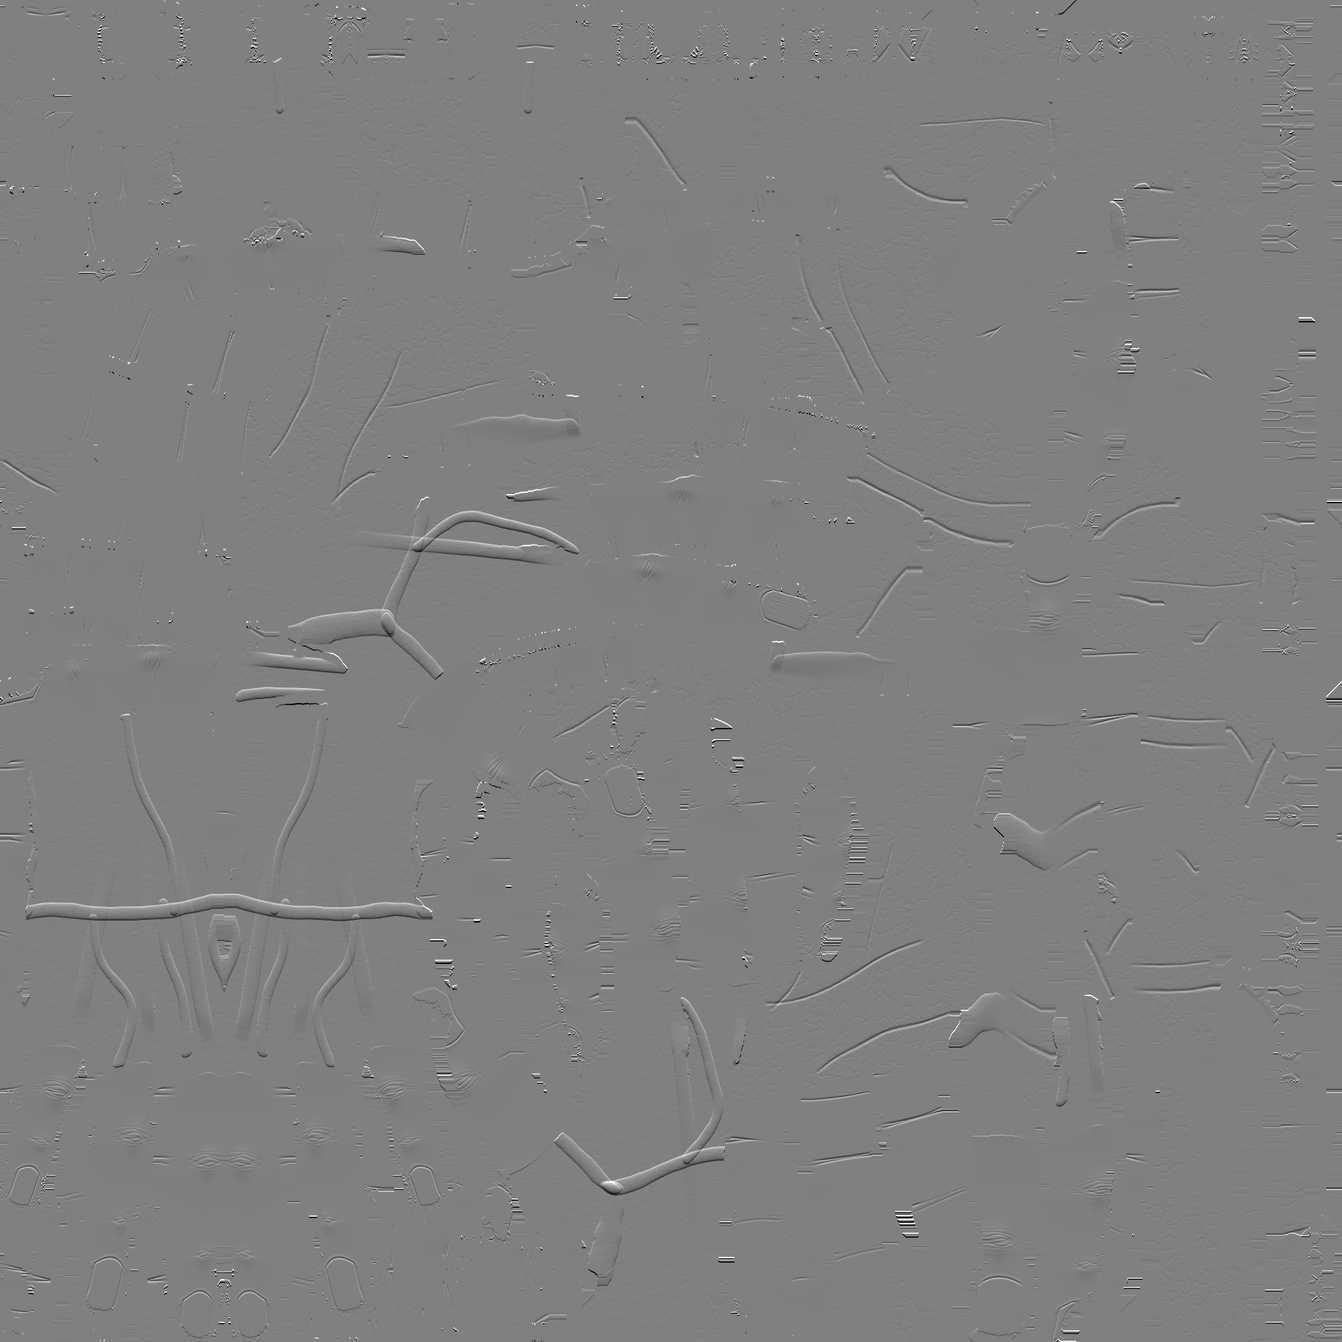
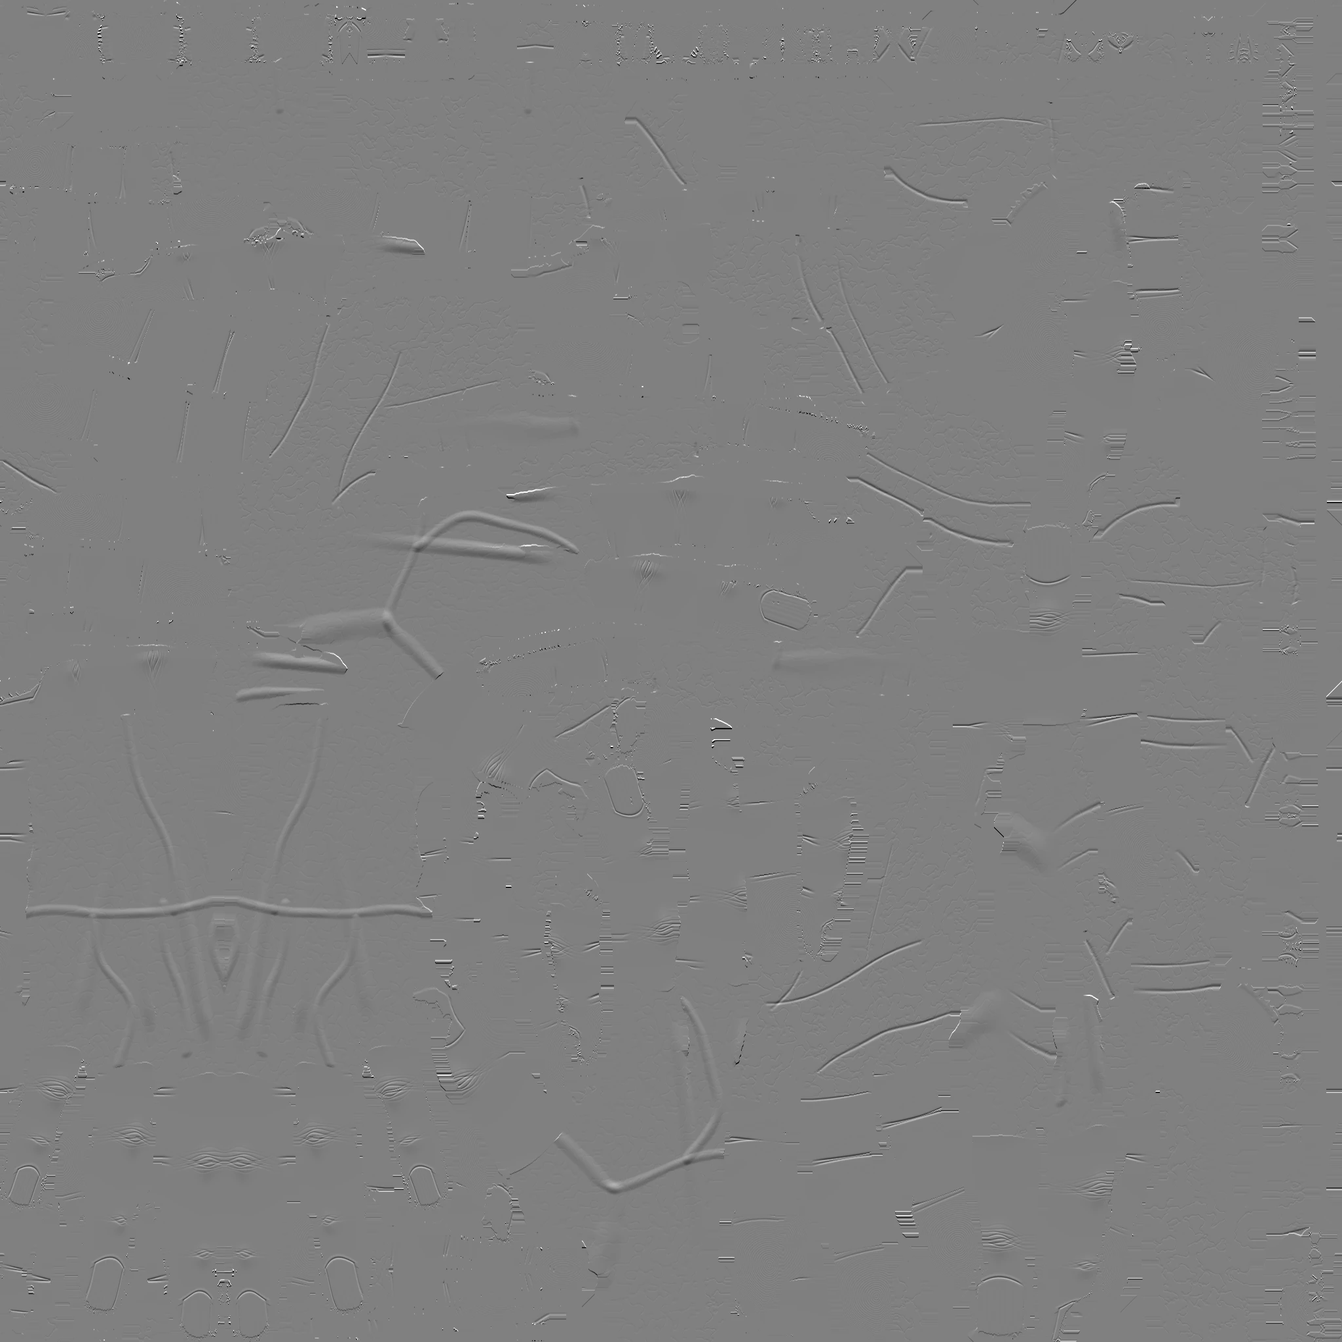
Hands: softer veins and tendons, cooler skin base, watch on the back of the wrist, roomier oval cuff, right forearm drops lower at aim (sleeve ~12% of the phone screen at ADS)

diff --git a/js/hands.js b/js/hands.js
@@ -25,7 +25,7 @@ export const SKINS = {
 const MODELS = new URL('../assets/models/', import.meta.url).href;
 const DRACO = new URL('../vendor/three/addons/libs/draco/gltf/', import.meta.url).href;
 // Must match tools/blender/build_hands.py: tile size (px), slope range of the relief maps, physical size of the tiles (m).
-const MAP = { tile: 512, slopeMax: 1.0, tileSkin: 0.012, tileLeather: 0.02 };
+const MAP = { tile: 512, slopeMax: 1.0, tileSkin: 0.016, tileLeather: 0.02 };
 
 // One material per look, on MeshPhysicalMaterial:
 //  - normals from the baked slope maps (u and v) plus a tiled micro relief (pores, or leather grain),
@@ -37,9 +37,9 @@ function skinMaterial(look, T, uvMeters) {
     color: glove ? s.color : 0xffffff, map: glove ? null : T.albedo,
     roughness: glove ? 0.55 : 1, roughnessMap: glove ? null : T.orm, aoMap: T.orm, aoMapIntensity: 1,
     normalMap: glove ? T.gloveNx : T.nx,
-    specularIntensity: s.spec, sheen: glove ? 0.4 : 0.22, sheenRoughness: glove ? 0.45 : 0.6, sheenColor: glove ? 0x6a5848 : 0xc89282,
-    clearcoat: glove ? 0.3 : 0.1, clearcoatRoughness: glove ? 0.42 : 0.36,
-    emissive: glove ? 0x000000 : s.sss, emissiveIntensity: glove ? 0 : 0.03,
+    specularIntensity: s.spec, sheen: glove ? 0.4 : 0.12, sheenRoughness: glove ? 0.45 : 0.7, sheenColor: glove ? 0x6a5848 : 0xc89282,
+    clearcoat: glove ? 0.3 : 0, clearcoatRoughness: 0.42,
+    emissive: glove ? 0x000000 : s.sss, emissiveIntensity: glove ? 0 : 0.02,
   });
   const detail = glove ? T.leather : T.pores;
   m.onBeforeCompile = (sh) => {
@@ -60,7 +60,7 @@ function skinMaterial(look, T, uvMeters) {
         vec2 gd = vec2( texture2D( uDetail, dUv + vec2( dT, 0.0 ) ).r - texture2D( uDetail, dUv - vec2( dT, 0.0 ) ).r,
                         texture2D( uDetail, dUv + vec2( 0.0, dT ) ).r - texture2D( uDetail, dUv - vec2( 0.0, dT ) ).r );
         // fade the micro relief out as its texels shrink below a pixel, so it never shimmers
-        float dFade = clamp( 2.0 - 0.75 * ${MAP.tile}.0 * length( fwidth( dUv ) ), 0.0, 1.0 );
+        float dFade = clamp( 1.6 - 0.12 * ${MAP.tile}.0 * length( fwidth( dUv ) ), 0.25, 1.0 );
         vec3 mapN = vec3( -( g + gd * uDetailK * dFade ), 1.0 );`))
       .replace('#include <lights_physical_pars_fragment>', THREE.ShaderChunk.lights_physical_pars_fragment.replace(
         'reflectedLight.directDiffuse += irradiance * BRDF_Lambert( material.diffuseColor );',
@@ -113,7 +113,7 @@ function tweedHeight() {
     const tw = 0.5 + 0.5 * Math.cos(ph * Math.PI * 2);
     const seam = Math.min(1, Math.abs((X % 8) - 0) * 1.5, Math.abs(8 - (X % 8)) * 1.5);
     h[i] = (0.55 * tw * tw + 0.25 * n3[i] + 0.2 * n2[i]) * (0.75 + 0.25 * seam);
-    fleck[i] = Math.max(0, nf[i] * 0.6 + n3[i] * 0.5 - 0.78) * 6;
+    fleck[i] = Math.max(0, nf[i] * 0.6 + n3[i] * 0.5 - 0.86) * 4;
   }
   return (tweedH = { h, fleck, S });
 }
@@ -194,9 +194,9 @@ const smooth = (a, b, x) => { const t = Math.min(1, Math.max(0, (x - a) / (b - a
 
 // Sleeve layout along the arm, in metres from the cuff edge (y = 0), which sits CUFF_AT up the arm from the wrist joint.
 const CUFF_AT = -0.011;          // the wrist joint is ~2 cm up the forearm from the wrist crease; the cuff ends just past it
-const CUFF = { a: 0.0332, b: 0.0242, off: 0.0015 };    // shirt cuff semi-axes (across, back-to-palm); centre toward the palm
+const CUFF = { a: 0.0338, b: 0.0258, off: 0.0015 };    // shirt cuff semi-axes (across, back-to-palm); centre toward the palm
 const HEM_Y = 0.0135;            // jacket hem: 13.5 mm of shirt cuff shows
-const JACKET = { a0: 0.0372, b0: 0.0288, a1: 0.047, b1: 0.04, len: 0.72 };
+const JACKET = { a0: 0.0378, b0: 0.0302, a1: 0.044, b1: 0.037, len: 0.72 };
 
 class Hand {
   constructor(scene, side, T) {
@@ -258,11 +258,10 @@ class Hand {
     this.sleeve.traverse((o) => { if (o.isMesh && o !== this.cap) { o.geometry.dispose(); o.material.map?.dispose(); o.material.dispose(); } });
     this.sleeve.clear();
     const right = this.side === 'right';
-    // The watch sits on the wrist's +X side; the left cuff rides up over it there.
-    const watchSide = watch ? 1 : 0;
-    const bulge = (ph, y) => watchSide * 0.0062 * Math.pow(Math.max(0, Math.cos(ph)), 6) * smooth(0.034, 0.0, y);
+    // On the watch hand the cuff stops a little higher, just above the watch.
+    this.cuffAt = watch ? -0.002 : CUFF_AT;
     const cuffProf = hemProfile(0, 0.0011, 0.06, 0.018, 10);
-    const cuffGeo = tubeGeometry({ prof: cuffProf, A: () => CUFF.a, B: () => CUFF.b, bump: bulge, seg: 72, offZ: CUFF.off, uRep: Math.round((2 * Math.PI * 0.029) / (OXFORD_MM / 1000)), vScale: 1000 / OXFORD_MM });
+    const cuffGeo = tubeGeometry({ prof: cuffProf, A: () => CUFF.a, B: () => CUFF.b, seg: 72, offZ: CUFF.off, uRep: Math.round((2 * Math.PI * 0.029) / (OXFORD_MM / 1000)), vScale: 1000 / OXFORD_MM });
     const cuffMat = new THREE.MeshPhysicalMaterial({ color: cuff, roughness: 0.82, sheen: 0.5, sheenRoughness: 0.6, sheenColor: new THREE.Color(cuff).multiplyScalar(0.9), normalMap: oxfordNormal(), normalScale: new THREE.Vector2(0.35, 0.35), side: THREE.DoubleSide });
     // topstitching 5 mm from the cuff edge: a fine darker line in the cuff's own colour
     cuffMat.onBeforeCompile = (sh) => {
@@ -278,11 +277,10 @@ class Hand {
       d += 0.0022 * Math.exp(-(((y - 0.2 - 0.03 * Math.cos(ph)) / 0.03) ** 2)) * (0.55 + 0.45 * Math.sin(ph * 2 + 1.1));
       d += 0.0018 * Math.exp(-(((y - 0.3 + 0.025 * Math.sin(ph)) / 0.028) ** 2)) * (0.5 + 0.5 * Math.cos(ph * 3 + 0.4));
       d += 0.0012 * Math.sin(ph * 5 + y * 40) * smooth(0.1, 0.3, y);
-      d += watchSide * 0.003 * Math.pow(Math.max(0, Math.cos(ph)), 6) * smooth(HEM_Y + 0.04, HEM_Y, y);
       return d;
     };
     const jProf = hemProfile(HEM_Y, 0.0016, J.len, HEM_Y + 0.05, 40);
-    const tw = tweedMaps(sleeve, '#d9ccb0');
+    const tw = tweedMaps(sleeve, '#b8ab90');
     const circ = Math.PI * (J.a0 + J.b0) * 1.1;
     const jGeo = tubeGeometry({ prof: jProf, A: (y) => J.a0 + (J.a1 - J.a0) * ramp(y), B: (y) => J.b0 + (J.b1 - J.b0) * ramp(y), bump: folds, seg: 96, uRep: Math.round(circ / (TWEED_MM / 1000)), vScale: 1000 / TWEED_MM });
     const jMat = new THREE.MeshPhysicalMaterial({ map: tw.map, normalMap: tw.normal, normalScale: new THREE.Vector2(0.55, 0.55), roughness: 0.9, sheen: 1, sheenRoughness: 0.55, sheenColor: new THREE.Color(sleeve).multiplyScalar(1.4), side: THREE.DoubleSide });
@@ -306,19 +304,18 @@ class Hand {
     const cap = new THREE.Mesh(new THREE.CircleGeometry(1, 48).rotateX(-Math.PI / 2).scale(CUFF.a - 0.003, 1, CUFF.b - 0.003).translate(0, 0.012, CUFF.off),
       this.capMat ||= new THREE.MeshStandardMaterial({ color: 0x3a2218, roughness: 0.8, side: THREE.DoubleSide }));
     this.sleeve.add(cap); this.cap = cap;
-    const d = new THREE.Group(), w = this.wrist.position;
-    const dorsal = new THREE.Vector3(1, 0, 0).applyQuaternion(this.wrist.quaternion);
-    const along = new THREE.Vector3(0, 0, 1).applyQuaternion(this.wrist.quaternion); // toward the elbow
-    const basis = new THREE.Matrix4().makeBasis(dorsal, along, dorsal.clone().cross(along).normalize());
-    d.quaternion.setFromRotationMatrix(basis); d.position.copy(w);
+    // The watch rides on the wrist bone's frame (X across, Y back of the hand, Z up the arm), on the back of the wrist
+    // just past the cuff, 12 o'clock toward the fingers.
+    const d = new THREE.Group(); d.position.copy(this.wrist.position); d.quaternion.copy(this.wrist.quaternion);
     if (watch) {
-      // strap fitted to the wrist (across 2.75 cm, back-to-palm 2.1 cm half-widths), case on the +X side
-      const strap = new THREE.Mesh(new THREE.CylinderGeometry(1, 1, 0.018, 80, 1, true).scale(0.0284, 1, 0.0218), new THREE.MeshPhysicalMaterial({ color: 0x3b2316, roughness: 0.55, clearcoat: 0.2, side: THREE.DoubleSide }));
-      strap.position.set(0, 0.006, -0.001); d.add(strap);
-      const caseG = new THREE.Group(); caseG.position.set(0.0302, 0.006, -0.001); caseG.rotation.z = -Math.PI / 2; d.add(caseG);
-      caseG.add(new THREE.Mesh(new THREE.CylinderGeometry(0.0175, 0.0185, 0.0075, 96), new THREE.MeshPhysicalMaterial({ color: 0xd9b46a, metalness: 1, roughness: 0.2 })));
-      const face = new THREE.Mesh(new THREE.CircleGeometry(0.0152, 96), new THREE.MeshPhysicalMaterial({ map: watchFace(), roughness: 0.3, clearcoat: 1 }));
-      face.rotation.x = -Math.PI / 2; face.rotation.z = Math.PI / 2; face.position.y = 0.0039; caseG.add(face);
+      const z = -0.013;
+      const strap = new THREE.Mesh(new THREE.CylinderGeometry(1, 1, 0.017, 96, 1, true).rotateX(Math.PI / 2).scale(0.0309, 0.0199, 1),
+        new THREE.MeshPhysicalMaterial({ color: 0x3b2316, roughness: 0.55, clearcoat: 0.2, side: THREE.DoubleSide }));
+      strap.position.set(0, -0.0016, z); d.add(strap);
+      const caseG = new THREE.Group(); caseG.position.set(0, 0.0215, z); d.add(caseG);
+      caseG.add(new THREE.Mesh(new THREE.CylinderGeometry(0.0168, 0.0178, 0.0072, 96), new THREE.MeshPhysicalMaterial({ color: 0xd9b46a, metalness: 1, roughness: 0.2 })));
+      const face = new THREE.Mesh(new THREE.CircleGeometry(0.0146, 96), new THREE.MeshPhysicalMaterial({ map: watchFace(), roughness: 0.3, clearcoat: 1 }));
+      face.rotation.x = -Math.PI / 2; face.rotation.z = Math.PI; face.position.y = 0.0037; caseG.add(face);
       caseG.traverse((o) => { if (o.isMesh) o.castShadow = true; });
     }
     this.group.children[0].add(d); this.dressing = d;
@@ -336,7 +333,7 @@ class Hand {
     const palm = new THREE.Vector3(0, -1, 0).transformDirection(mw);
     this.sleeve.quaternion.setFromRotationMatrix(this._m);
     this.sleeve.scale.set(1, 1, palm.dot(z) < 0 ? -1 : 1);
-    this.sleeve.position.copy(w).addScaledVector(dir, CUFF_AT);
+    this.sleeve.position.copy(w).addScaledVector(dir, this.cuffAt ?? CUFF_AT);
   }
 
   setSkin(name) {

diff --git a/sw.js b/sw.js
@@ -1,12 +1,14 @@
 // Offline cache: the shell and phone assets are stored on install; everything else same-origin is cached on first use.
 // Responses come from the cache at once and refresh in the background, so a new push shows on the next open.
-const CACHE = 'roulette-v5';
+const CACHE = 'roulette-v6';
 const SHELL = [
   './', 'index.html', 'app.css', 'manifest.webmanifest',
-  'js/main.js', 'js/revolver.js', 'js/hands.js', 'js/hands-data.js', 'js/fx.js', 'js/sound.js', 'js/target.js', 'js/customize.js',
+  'js/main.js', 'js/revolver.js', 'js/hands.js', 'js/fx.js', 'js/sound.js', 'js/target.js', 'js/customize.js',
   'js/range.js', 'js/pistol.js', 'assets/ui/pistol-classic.webp', 'assets/ui/pistol-stainless.webp', 'assets/ui/pistol-black.webp',
   // The pistol model and its textures (about 1.5 MB) are cached the first time Range opens.
   'assets/models/revolver.glb', 'assets/models/revolver_wear.webp', 'assets/models/revolver_scratch.webp', 'assets/models/revolver_grip_m.webp', 'assets/models/revolver_grip_n.webp', 'assets/models/revolver_normal.webp', 'assets/models/revolver_detail.webp',
+  'assets/models/hand_left.glb', 'assets/models/hand_right.glb', 'assets/models/hand_albedo.webp', 'assets/models/hand_nx.webp', 'assets/models/hand_ny.webp',
+  'assets/models/hand_orm.webp', 'assets/models/hand_glove_nx.webp', 'assets/models/hand_glove_ny.webp', 'assets/models/hand_pores.webp', 'assets/models/hand_leather.webp',
   'vendor/three/addons/loaders/DRACOLoader.js', 'vendor/three/addons/libs/draco/gltf/draco_decoder.wasm', 'vendor/three/addons/libs/draco/gltf/draco_wasm_wrapper.js',
   'vendor/gsap.min.js', 'vendor/three/three.module.js',
   'vendor/three/addons/postprocessing/EffectComposer.js', 'vendor/three/addons/postprocessing/RenderPass.js',

diff --git a/js/main.js b/js/main.js
@@ -1025,7 +1025,7 @@ function update(dt, t, raw) {
     ['pinky', 'ring', 'middle', 'index'].forEach((f, i) => { const ph = (drum - i * 0.11) / 0.22; if (ph > 0 && ph < 1 && !reduced) poseL[f][0] -= Math.sin(ph * Math.PI) * 0.45; });
     left.apply(poseL);
     scene.updateMatrixWorld();
-    const fore = tmpV.set(0, 0, 1).transformDirection(right.wrist.matrixWorld).add(new THREE.Vector3().copy(ELBOW_R).add(new THREE.Vector3(0.06 * P.ads, -0.4 * P.ads, 0)).multiply(new THREE.Vector3(mir.scale.x, 1, 1)).applyQuaternion(camera.getWorldQuaternion(tmpQ))).normalize();
+    const fore = tmpV.set(0, 0, 1).transformDirection(right.wrist.matrixWorld).add(new THREE.Vector3().copy(ELBOW_R).add(new THREE.Vector3(-0.15 * P.ads, -1.2 * P.ads, 0)).multiply(new THREE.Vector3(mir.scale.x, 1, 1)).applyQuaternion(camera.getWorldQuaternion(tmpQ))).normalize();
     right.aimSleeve(right.wrist.getWorldPosition(new THREE.Vector3()).addScaledVector(fore, 0.3));
     left.aimSleeve(lmir.localToWorld(elbowNow.clone()));
   }

diff --git a/tools/blender/build_hands.py b/tools/blender/build_hands.py
@@ -312,7 +312,7 @@ def make_veins(seed):
         pts = [(x + rng.normal(0, .02), 1.02), (x + rng.normal(0, .04), 0.8), (x * 0.85 + 0.08 + rng.normal(0, .04), 0.6), (0.15 + 0.7 * (i / 2) + rng.normal(0, .03), arch_y)]
         lines.append((catmull(pts), 1.0 - 0.15 * i))
     arch = catmull([(-0.15, 0.25), (0.1, arch_y - 0.02), (0.45, arch_y + 0.03), (0.8, arch_y - 0.01), (1.08, 0.3)])
-    lines.append((arch, 1.1))
+    lines.append((arch, 0.75))
     lines.append((catmull([(-0.15, 0.25), (-0.12, 0.0), (-0.05, -0.35), (0.0, -0.8)]), 1.25))     # cephalic, radial side
     lines.append((catmull([(1.08, 0.3), (1.0, 0.0), (0.92, -0.4), (0.9, -0.8)]), 1.15))           # basilic, ulnar side
     lines.append((catmull([(0.45, arch_y + 0.03), (0.42, 0.2), (0.5, -0.1), (0.46, -0.5)]), 0.8))  # small median vein
@@ -397,7 +397,7 @@ def fields(H, P, N):
                 red += 0.6 * gauss(zr + 1.0, 5.0) * gauss(theta, 0.8)
                 wr = sum(gauss(zr - d0 - 2.2 * theta ** 2, 0.22) * a0 for d0, a0 in ((-3.0, .5), (-1.4, .8), (0.2, 1), (1.8, .7), (3.3, .4)))
                 wmask = gauss(theta, 0.8) * gauss(zr, 6.0)
-                h -= 0.00007 * wr * wmask; crease += 0.5 * wr * wmask
+                h -= 0.0001 * wr * wmask; crease += 0.6 * wr * wmask
                 hg -= 0.00025 * (gauss(zr + 2.0 - 2 * theta ** 2, 0.8) + gauss(zr - 2.5 - 2 * theta ** 2, 0.9)) * gauss(theta, 0.9)
             else:
                 size = 1.0 if big else 0.62
@@ -409,7 +409,7 @@ def fields(H, P, N):
                     jit = 0.25 * np.sin(theta * 3.1 + d0 * 1.7)
                     wr = wr + a0 * gauss(zr - d0 * size - curv * theta ** 2 * np.sign(-d0 + 0.5) * 0.6 - jit, 0.17 + 0.05 * size)
                 wmask = gauss(theta, 0.95 * size + 0.15) * gauss(zr - 0.5, 4.6 * size)
-                h -= 0.00011 * wr * wmask; crease += 0.8 * wr * wmask
+                h -= 0.00016 * wr * wmask; crease += 0.9 * wr * wmask
                 padk = gauss(zr - 0.8, 4.2 * size) * gauss(theta, 0.75)
                 h += 0.00035 * padk * size; knuck += padk * size
                 red += (0.85 if big else 0.55) * gauss(zr - 0.5, 4.8 * size) * gauss(theta, 0.85)
@@ -506,15 +506,15 @@ def fields(H, P, N):
             A = np.array([0.42 + 0.06 * (fi - 1.5), -0.25]) * sc; B = np.array([kx, ky]) * sc
             d, t = seg_dist2d(q * sc, A, B)
             vis = smooth(0.25, 0.8, t) * smooth(1.02, 0.9, t) * (1.0 if fi < 3 else 0.6)
-            prof = np.sqrt(np.clip(1 - (d / 0.0026) ** 2, 0, 1))
+            prof = np.clip(1 - (d / 0.0034) ** 2, 0, 1) ** 2
             h += dors * 0.0005 * prof * vis
         # back: knuckle valleys
         # veins (slightly raised, a cool tint)
         for line, s in VEINS:
             c = line * sc; d, al, tot = poly_dist(q * sc, c)
-            wv = 0.0019 * s * (1 + 0.15 * vnoise3(P[pm], 200, 77))
-            prof = np.sqrt(np.clip(1 - (d / wv) ** 2, 0, 1))
-            h += dors * 0.00045 * s * prof
+            wv = 0.0024 * s * (1 + 0.15 * vnoise3(P[pm], 200, 77))
+            prof = np.clip(1 - (d / wv) ** 2, 0, 1) ** 2
+            h += dors * 0.0004 * s * prof * (0.75 + 0.25 * vnoise3(P[pm], 120, 78))
             vein = np.maximum(vein, dors * smooth(1.0, 0.3, d / wv) * min(1, s))
         # back of the hand: faint diamond creases
         h -= dors * 0.00002 * np.clip(1 - np.abs(vnoise3(P[pm], 420, 21)) * 6, 0, 1)
@@ -541,6 +541,7 @@ def fields(H, P, N):
     out['noise_hi'] = fbm3(P, 700, 5, 3)
     out['mottle'] = fbm3(P, 260, 8, 3)
     out['spots'] = np.clip((vnoise3(P, 900, 13) - 0.86) * 9, 0, 1)
+    out['speck'] = vnoise3(P, 1700, 17) * 0.6 + vnoise3(P, 3200, 19) * 0.4
     return out
 
 # ================================================================= BAKE
@@ -616,14 +617,14 @@ save('hand_nx', gx, 90); save('hand_ny', gy, 90)
 
 # ---- albedo (linear "medium" skin), stored sRGB
 vent = F['vent']; red = np.clip(F['red'], 0, 1.5); dark = np.clip(F['dark'], 0, 1.5)
-base_d = np.array([0.43, 0.215, 0.135]); base_v = np.array([0.50, 0.285, 0.20])
+base_d = np.array([0.33, 0.21, 0.165]); base_v = np.array([0.42, 0.285, 0.225])
 col = base_d * (1 - vent[..., None]) + base_v * vent[..., None]
 mott = F['mottle'][..., None]; lo = F['noise_lo'][..., None]
-col = col * (1 + 0.07 * lo + 0.04 * mott * np.array([1.0, 0.8, 0.7]))
-col = col * (1 - red[..., None] * np.array([-0.03, 0.17, 0.18]))                  # redness: less green/blue
-col = col * (1 - 0.30 * np.clip(dark, 0, 1)[..., None] - 0.25 * np.clip(F['crease'], 0, 1.5)[..., None] * np.array([0.9, 1.0, 1.0]))
+col = col * (1 + 0.10 * lo + 0.07 * mott * np.array([1.0, 0.8, 0.7]) + 0.05 * F['speck'][..., None])
+col = col * (1 - red[..., None] * np.array([-0.04, 0.2, 0.17]))                  # redness: less green/blue
+col = col * (1 - 0.32 * np.clip(dark, 0, 1)[..., None] - 0.38 * np.clip(F['crease'], 0, 1.2)[..., None] * np.array([0.85, 1.0, 1.0]))
 vein = F['vein'][..., None]
-col = col * (1 - vein * np.array([0.10, 0.04, -0.03]))
+col = col * (1 - vein * np.array([0.08, 0.0, -0.06]))
 col = col * (1 - 0.18 * F['spots'][..., None] * (1 - vent[..., None]) * np.array([0.8, 1, 1.1]))
 col = col * (1 - 0.06 * F['side'][..., None] * np.array([0.5, 1, 1]))
 nail = F['nail'][..., None]; lun = F['lunula'][..., None]; free = F['free'][..., None]; band = F['band'][..., None]
@@ -634,7 +635,7 @@ nail_c = nail_c * (1 - free) + np.array([0.76, 0.69, 0.58]) * free
 col = col * (1 - nail) + nail_c * nail
 col = col * (0.55 + 0.45 * F['ao'][..., None] ** 0.6)
 alb = fill_pad(lin2srgb(col), mask)
-save('hand_albedo', alb, 88)
+save('hand_albedo', alb, 92)
 
 # ---- ORM: occlusion, roughness, pigment weight, glove stitch mask
 ao = np.clip(F['ao'] * (1 - 0.35 * np.clip(F['crease'], 0, 1)) * (1 - 0.12 * F['side']), 0, 1)
@@ -645,7 +646,7 @@ st = np.clip(F['stitch'], 0, 1)
 orm = np.stack([ao, np.clip(rough, 0, 1), np.clip(pig, 0, 1), st], -1)
 # half resolution
 orm = orm.reshape(ORM_RES, 2, ORM_RES, 2, 4).mean((1, 3)); mh = mask.reshape(ORM_RES, 2, ORM_RES, 2).max((1, 3))
-save('hand_orm', fill_pad(orm, mh), 90)
+save('hand_orm', fill_pad(orm, mh), 96)
 
 # ---- glove relief (leather creases, seams, stitching), half resolution
 hg = (F['hg'] + 0.25 * np.clip(F['h'], -0.0006, 0)).reshape(ORM_RES, 2, ORM_RES, 2).mean((1, 3))
@@ -676,9 +677,9 @@ def periodic_noise(S, scale, seed):
     n = np.real(np.fft.ifft2(np.fft.fft2(w) * k)); return n / (n.std() + 1e-9)
 
 TILE = 512
-# skin: a furrow network (plates about 0.45 mm across over a 12 mm tile), pores at some furrow crossings, fine noise
+# skin: a furrow network (plates about 0.6 mm across over a 16 mm tile), pores at some furrow crossings, fine noise
 F1, F2, ID = voronoi_tile(TILE, 26, 3)
-fur = np.exp(-((F2 - F1) / 0.10) ** 2)
+fur = np.exp(-((F2 - F1) / 0.05) ** 2)
 F1b, F2b, _ = voronoi_tile(TILE, 13, 4)
 fur2 = np.exp(-((F2b - F1b) / 0.07) ** 2)
 rng = np.random.default_rng(5)
@@ -688,7 +689,7 @@ for _ in range(420):
     cx, cy = rng.random(2) * TILE; r = rng.uniform(1.6, 2.6)
     dx = (xs - cx + TILE / 2) % TILE - TILE / 2; dy = (ys - cy + TILE / 2) % TILE - TILE / 2
     pores += np.exp(-(dx * dx + dy * dy) / (r * r)) * rng.uniform(0.5, 1)
-skin = 0.5 - 0.22 * fur - 0.18 * fur2 - 0.25 * np.clip(pores, 0, 1) + 0.05 * periodic_noise(TILE, 40, 6) + 0.05 * periodic_noise(TILE, 9, 7)
+skin = 0.5 - 0.07 * fur - 0.13 * fur2 - 0.3 * np.clip(pores, 0, 1) + 0.035 * periodic_noise(TILE, 40, 6) + 0.05 * periodic_noise(TILE, 12, 7)
 save('hand_pores', np.clip(skin, 0, 1), 100)
 
 # leather: pebbled grain, cells about 0.8 mm over a 20 mm tile, fine pits
@@ -700,5 +701,5 @@ save('hand_leather', np.clip(leather, 0, 1), 100)
 # ================================================================= MESHES
 for side, H in HANDS.items():
     p = os.path.join(WORK, f'hand_{side}.raw.glb'); write_glb(p, H['j'], H['acc'], H['V']); log('wrote', p, os.path.getsize(p))
-json.dump({'uvMeters': UVM, 'slopeMax': SMAX, 'tileSkin': 0.012, 'tileLeather': 0.020}, open(os.path.join(WORK, 'hand_maps.json'), 'w'))
+json.dump({'uvMeters': UVM, 'slopeMax': SMAX, 'tileSkin': 0.016, 'tileLeather': 0.020}, open(os.path.join(WORK, 'hand_maps.json'), 'w'))
 log('done')

diff --git a/CREDITS.md b/CREDITS.md
@@ -4,7 +4,7 @@ Every asset that ships in this repository, and where it comes from:
 
 - Revolver (`assets/models/revolver.glb` and `revolver_*.webp`): based on "Smith & Wesson's 629 Classic .44 Magnum" by Gintoki1234 (https://gintoki1234.itch.io/smith-wessons-629-classic-44-magnum), licensed under CC BY 4.0 (https://creativecommons.org/licenses/by/4.0/). Modified for this app by `tools/blender/import_sw629.py`: re-exported as a Draco GLB, split into separately pivoted moving parts (frame, grip, hammer, trigger, crane, cylinder), maker's markings removed from the textures, the textures re-graded and repacked (normal map, a roughness/metalness/luminance map and a baked wear map; the blued, stainless and nickel finishes are built in `js/revolver.js`), the rubber grip re-textured as checkered walnut with a medallion, and new generic cartridges. The original cartridges, speed loader and full-size textures are not included. The scratch map (`revolver_scratch.webp`) is procedural, from `tools/blender/build_revolver.py`. No endorsement by the author or by any manufacturer is implied.
 - Pistol (`assets/models/pistol.glb` and `pistol_*.webp`): modelled and textured procedurally for this app by `tools/blender/build_pistol.py`. No third-party model or texture.
-- Hands: cut from the MakeHuman / MPFB base mesh (CC0), re-rigged in Blender.
+- Hands (`assets/models/hand_left.glb`, `hand_right.glb`): cut from the MakeHuman / MPFB base mesh (CC0, https://creativecommons.org/publicdomain/zero/1.0/; https://github.com/makehumancommunity), re-rigged in Blender. Modified: new UV atlas and Draco compression by `tools/blender/build_hands.py`. The skin, glove, pore and leather maps (`assets/models/hand_*.webp`) are procedural, baked by the same script; no third-party texture or photo. The jacket tweed and shirting weave are generated in code (`js/hands.js`).
 - Paper target, flash, smoke: canvas textures and three.js geometry written for this app.
 - Range mode (`js/range.js`): the indoor range, paper, steel, bottles, cans and spinner are built in code from three.js geometry and canvas noise textures written for this app. No photos or third-party models.
 - Customize tiles (`assets/ui/`, including `pistol-*.webp`): rendered from the app's own models.
